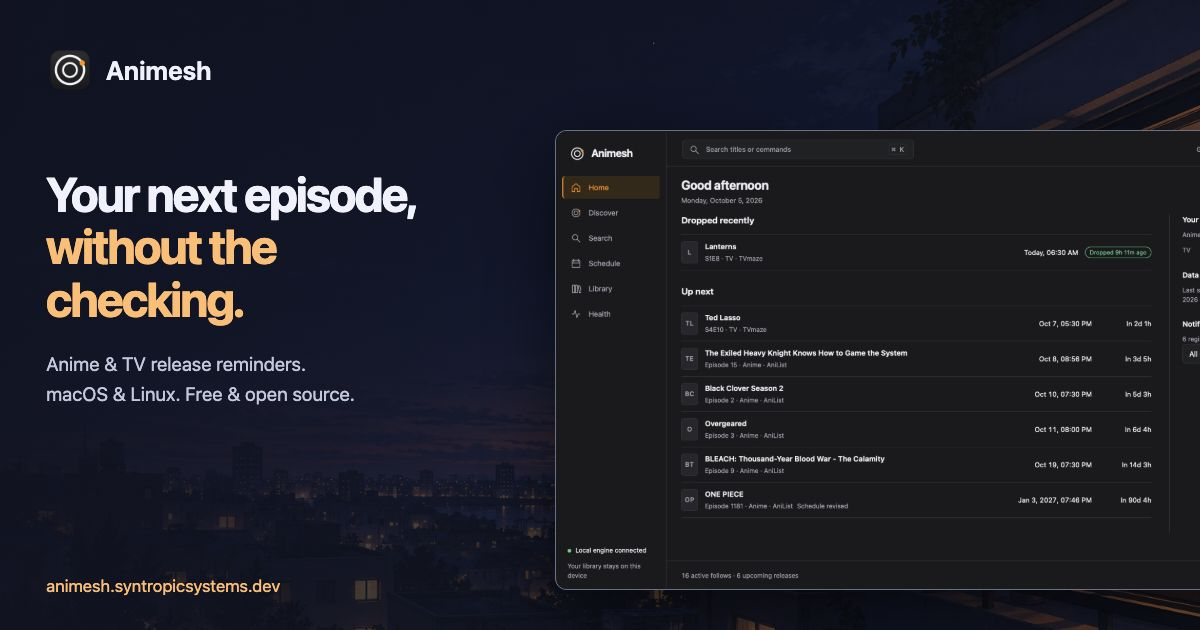
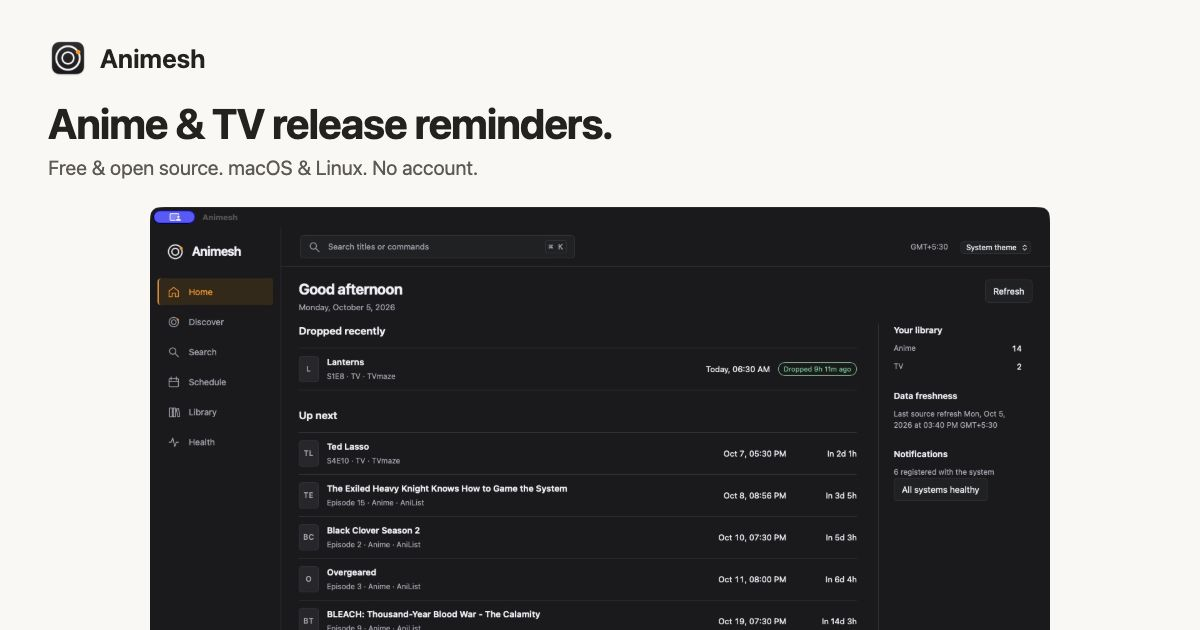
Simplify the website to screenshots and compact downloads

diff --git a/site/index.html b/site/index.html
@@ -3,10 +3,10 @@
 <head>
   <meta charset="utf-8">
   <meta name="viewport" content="width=device-width, initial-scale=1">
-  <meta name="color-scheme" content="dark">
-  <meta name="description" content="Follow anime and TV shows. See the next episode and get release reminders on your Mac or Linux desktop. No account required.">
-  <meta property="og:title" content="Animesh — Your next episode, without the checking">
-  <meta property="og:description" content="A local-first anime and TV release radar for macOS and Linux. Follow your shows. Get on with your day.">
+  <meta name="color-scheme" content="light">
+  <meta name="description" content="Anime and TV release reminders for macOS and Linux. Free and open source. No account needed.">
+  <meta property="og:title" content="Animesh — Anime & TV release reminders">
+  <meta property="og:description" content="Follow your shows. Get a reminder when the next episode releases. Free for macOS and Linux.">
   <meta property="og:type" content="website">
   <meta property="og:url" content="https://animesh.syntropicsystems.dev/">
   <meta property="og:image" content="https://animesh.syntropicsystems.dev/assets/share.png">
@@ -15,53 +15,45 @@
   <link rel="icon" href="assets/icon.png">
   <link rel="stylesheet" href="styles.css">
   <script src="app.js" defer></script>
-  <title>Animesh — Your next episode, without the checking</title>
+  <title>Animesh — Anime & TV release reminders</title>
 </head>
 <body>
   <a class="skip" href="#main">Skip to content</a>
-  <header class="site-header wrap">
-    <a class="brand" href="#"><img src="assets/icon.png" width="40" height="40" alt="">Animesh</a>
-    <nav aria-label="Main navigation"><a href="#how">How it works</a><a href="#download">Download</a><a href="https://github.com/Abhi-Gautam/animesh">GitHub</a></nav>
+  <header class="wrap site-header">
+    <a class="brand" href="#"><img src="assets/icon.png" width="36" height="36" alt="">Animesh</a>
+    <nav aria-label="Main navigation"><a href="#download">Download</a><a href="https://github.com/Abhi-Gautam/animesh">GitHub</a></nav>
   </header>
-  <main id="main">
-    <section class="hero wrap" aria-labelledby="hero-title">
-      <div class="hero-copy"><p class="availability">For macOS &amp; Linux · Free &amp; open source</p>
-        <h1 id="hero-title">Your next episode,<br> <em>without the checking.</em></h1>
-        <p class="intro">Follow the anime and TV shows you care about. See what’s next, get a reminder when an episode releases, and get on with your day.</p>
-        <div class="actions"><a class="button primary" href="#download">Get Animesh</a><a class="button secondary" href="#inside">Take a look inside</a></div>
-        <p class="hero-note">No account. Your library stays on your device.</p>
+  <main id="main" class="wrap">
+    <section class="intro" aria-labelledby="hero-title">
+      <h1 id="hero-title">Anime &amp; TV release reminders.</h1>
+      <p>Follow your shows. Get a reminder when the next episode releases.</p>
+      <a class="button" href="#download">Download Animesh</a>
+      <p class="small">Free &amp; open source. macOS &amp; Linux. No account.</p>
+    </section>
+    <section class="screenshots" aria-label="App screenshots">
+      <div class="view-options" role="group" aria-label="Choose a screenshot">
+        <button type="button" data-view="home" aria-pressed="true">Home</button>
+        <button type="button" data-view="schedule" aria-pressed="false">Schedule</button>
+        <button type="button" data-view="library" aria-pressed="false">Library</button>
+        <button type="button" data-view="linux" aria-pressed="false">Linux</button>
+        <button type="button" data-view="menubar" aria-pressed="false">Menu bar</button>
+        <button type="button" data-view="terminal" aria-pressed="false">Terminal</button>
       </div>
-      <figure class="hero-shot"><div class="window-caption"><span class="window-dots" aria-hidden="true">● ● ●</span><span>Animesh on macOS</span></div><div class="mac-shot"><img src="assets/screenshots/mac-home.png" width="1440" height="900" alt="Animesh Home showing recently released episodes, upcoming anime and TV, and a fixed summary of 16 followed titles."></div><figcaption>Know what dropped. See what’s next.</figcaption></figure>
+      <figure>
+        <a id="view-full" href="assets/screenshots/mac-home.png" aria-label="Open full-size screenshot"><img id="view-image" src="assets/screenshots/mac-home.png" width="1440" height="900" alt="Animesh Home showing recent and upcoming episodes from a library of 16 followed shows."></a>
+        <figcaption aria-live="polite"><span id="view-caption">What dropped. What’s next.</span> <a id="terminal-search" href="assets/screenshots/cli-search.png" hidden>Search example</a></figcaption>
+      </figure>
     </section>
-    <section class="how wrap" id="how" aria-labelledby="how-title">
-      <div class="section-intro"><h2 id="how-title">A small app.<br>A little less keeping up.</h2><p>One place for your anime and TV release schedule, with times shown in your local timezone.</p></div>
-      <ol class="steps"><li><h3>Find your show</h3><p>Search AniList and TVmaze by name. Check the title, year, and format before you follow.</p></li><li><h3>Follow what matters</h3><p>Your next known episodes appear on Home and Schedule. Your library is saved locally.</p></li><li><h3>Let the reminder come to you</h3><p>Allow desktop notifications, then close the window. The background service keeps tracking release times.</p></li></ol>
-    </section>
-    <section class="inside wrap" id="inside" aria-labelledby="inside-title">
-      <div class="section-intro"><h2 id="inside-title">Your shows.<br>One clear view.</h2><p>Explore airing titles, look ahead, and keep the shows you deliberately follow together.</p></div>
-      <div class="viewer">
-        <div class="view-options" role="group" aria-label="Choose an app screenshot"><button type="button" data-view="schedule" aria-pressed="true">Schedule</button><button type="button" data-view="library" aria-pressed="false">Library</button><button type="button" data-view="discover" aria-pressed="false">Discover</button><button type="button" data-view="search" aria-pressed="false">Search</button><button type="button" data-view="health" aria-pressed="false">Health</button><button type="button" data-view="linux" aria-pressed="false">On Linux</button></div>
-        <figure><div id="view-frame" class="mac-shot"><img id="view-image" src="assets/screenshots/mac-schedule.png" width="1440" height="900" loading="lazy" alt="Animesh Schedule groups upcoming anime and TV episodes by local date, with filters above and a summary below."></div><figcaption id="view-caption" aria-live="polite">Look ahead by date. Filters and the summary stay visible while the list scrolls.</figcaption><a id="view-full" class="full-size" href="assets/screenshots/mac-schedule.png">Open full-size screenshot</a></figure>
+    <section class="download" id="download" aria-labelledby="download-title">
+      <h2 id="download-title">Download</h2>
+      <div class="platforms">
+        <div><h3>macOS</h3><p class="small">macOS 13+</p><div class="download-links"><a data-download="mac-arm" href="https://github.com/Abhi-Gautam/animesh/releases/tag/v0.7.0">Apple Silicon</a><a data-download="mac-intel" href="https://github.com/Abhi-Gautam/animesh/releases/tag/v0.7.0">Intel</a></div></div>
+        <div><h3>Linux</h3><p class="small">Ubuntu 24.04+</p><div class="download-links"><a data-download="linux-amd64" href="https://github.com/Abhi-Gautam/animesh/releases/tag/v0.7.0">x86_64 .deb</a><a data-download="linux-arm64" href="https://github.com/Abhi-Gautam/animesh/releases/tag/v0.7.0">ARM64 .deb</a></div></div>
       </div>
-      <div class="principles"><div><h3>A library that’s yours</h3><p>No Animesh account or cloud sync. Your followed titles and schedules live in a local SQLite database.</p></div><div><h3>Quiet in the background</h3><p>Keep tracking after closing the window. On macOS, your next releases are a click away in the menu bar.</p></div><div><h3>Clear about what it knows</h3><p>See source freshness and notification health. Schedules depend on source data; a release time can change.</p></div></div>
+      <p class="small install-note">macOS downloads are not yet notarized. <a href="https://github.com/Abhi-Gautam/animesh#install">Installation guide</a></p>
+      <p class="small"><span id="release-version">v0.7.0</span> · <a href="https://github.com/Abhi-Gautam/animesh/releases/latest">Release notes &amp; other downloads</a></p>
     </section>
-    <section class="other-ways wrap" aria-labelledby="other-title"><div class="section-intro"><h2 id="other-title">A quick glance.<br>Or a command away.</h2><p>The same local library in the desktop window, your Mac menu bar, and the terminal.</p></div><div class="tools-grid"><figure><img src="assets/screenshots/mac-menubar.png" width="698" height="336" loading="lazy" alt="The Mac menu bar shows six upcoming releases, 16 followed titles, and Open Animesh, Refresh Now, and Quit Animesh actions."><figcaption><h3>Right in the menu bar</h3><p>Check the next releases without opening the window. Open Animesh when you want the full view.</p></figcaption></figure><figure><img src="assets/screenshots/cli-next.png" loading="lazy" width="1172" height="800" alt="Actual output from animesh next, listing upcoming followed episodes, release times, and countdowns."><figcaption><h3>For the terminal, too</h3><p><code>animesh next</code> reads your saved schedule. Search, follow, refresh, and inspect health from the CLI. Every command supports JSON output.</p><a href="assets/screenshots/cli-search.png">See a real title search</a></figcaption></figure></div></section>
-    <section class="download wrap" id="download" aria-labelledby="download-title">
-      <div class="section-intro"><h2 id="download-title">Make room<br>for the next episode.</h2><p>Choose your system below. Animesh is an early release: expect rough edges and check release notes before updating.</p></div>
-      <div class="installers"><article><h3>macOS</h3><p>macOS 13 or newer</p><div class="download-links"><a class="button primary" data-download="mac-arm" href="https://github.com/Abhi-Gautam/animesh/releases/tag/v0.7.0">Apple Silicon .dmg</a><a class="button secondary" data-download="mac-intel" href="https://github.com/Abhi-Gautam/animesh/releases/tag/v0.7.0">Intel .dmg</a></div><p>Move Animesh into Applications and open it. Choose <strong>Open Animesh</strong> from the menu bar to open the window.</p><p class="install-note" id="mac-signing">The current download is not notarized. macOS may require approval in Privacy &amp; Security. Homebrew builds from source and is another install option.</p><details><summary>Install with Homebrew</summary><pre><code>brew tap abhi-gautam/animesh https://github.com/Abhi-Gautam/animesh
-brew install abhi-gautam/animesh/animesh
-animesh service start</code></pre><p>Homebrew builds the full app locally, so the first install takes longer.</p></details></article>
-      <article><h3>Linux</h3><p>Ubuntu 24.04 or a compatible newer system</p><div class="download-links"><a class="button primary" data-download="linux-amd64" href="https://github.com/Abhi-Gautam/animesh/releases/tag/v0.7.0">x86_64 .deb</a><a class="button secondary" data-download="linux-arm64" href="https://github.com/Abhi-Gautam/animesh/releases/tag/v0.7.0">ARM64 .deb</a></div><p>Install the package, then open <strong>Animesh</strong> from your applications menu. Your package manager installs its desktop dependencies.</p><pre><code>sudo apt install ./animesh_*.deb</code></pre><p class="install-note">Other distributions: tarballs and manual installation instructions are available in the release. The desktop requires WebKitGTK 4.1.</p></article></div>
-      <p class="release-note"><span id="release-version">v0.7.0</span> · <a href="https://github.com/Abhi-Gautam/animesh/releases/latest">Release notes, tarballs &amp; checksums</a> · <a href="https://github.com/Abhi-Gautam/animesh#commands">CLI documentation</a></p>
-    </section>
-    <section class="faq wrap" aria-labelledby="faq-title"><h2 id="faq-title">Before you install</h2><div>
-      <details><summary>Does Animesh play or download episodes?</summary><p>It tracks release schedules and sends reminders. Watch episodes through your streaming service. Source release times do not guarantee availability on a particular service or in your region.</p></details>
-      <details><summary>Does it work offline?</summary><p>Your saved library and known schedules remain available offline. Searching, discovering titles, and updating release times need an internet connection to AniList and TVmaze.</p></details>
-      <details><summary>What leaves my device?</summary><p>Searches and schedule refreshes contact AniList and TVmaze. Your library is stored locally; Animesh has no account, cloud sync, or app analytics. Those sources have their own privacy policies.</p></details>
-      <details><summary>Why didn’t I get a reminder?</summary><p>Check Health in the app for notification permission, source freshness, and the background service. Your system’s Focus or Do Not Disturb settings can silence banners. A show without a known upcoming episode has no reminder scheduled.</p></details>
-      <details><summary>How do I report a problem?</summary><p>Open a <a href="https://github.com/Abhi-Gautam/animesh/issues/new/choose">GitHub issue</a> with your system, app version, and steps to reproduce it. Health can copy diagnostics; review them before sharing.</p></details>
-    </div></section>
   </main>
-  <footer class="site-footer wrap"><a class="brand" href="#"><img src="assets/icon.png" width="32" height="32" alt="">Animesh</a><p>Built by <a href="https://syntropicsystems.dev/">Abhishek Gautam</a></p><nav aria-label="Project links"><a href="https://github.com/Abhi-Gautam/animesh">Source</a><a href="https://github.com/Abhi-Gautam/animesh/issues">Feedback</a><a href="https://syntropicsystems.dev/writing/animesh/">The story</a></nav></footer>
+  <footer class="wrap site-footer"><span class="small">By <a href="https://syntropicsystems.dev/">Abhishek Gautam</a></span><nav aria-label="Project links"><a href="https://github.com/Abhi-Gautam/animesh/issues">Feedback</a><a href="https://github.com/Abhi-Gautam/animesh#commands">CLI docs</a></nav></footer>
 </body>
 </html>

diff --git a/site/styles.css b/site/styles.css
@@ -1,11 +1,53 @@
-:root{color-scheme:dark;--bg:#101226;--surface:#171a32;--text:#f2f3fc;--muted:#b4b9d3;--line:#363b59;--accent:#ffc479;font:17px/1.65 -apple-system,BlinkMacSystemFont,"Segoe UI",sans-serif}
-*{box-sizing:border-box}html{scroll-behavior:smooth;scroll-padding-top:24px}body{margin:0;background:var(--bg);color:var(--text)}a{color:inherit;text-underline-offset:4px}button{font:inherit;cursor:pointer}img{display:block;max-width:100%;height:auto}h1,h2,h3,p,figure{margin:0}h1,h2,h3{line-height:1.13}p{max-width:65ch}h1{font-size:clamp(2.7rem,5.6vw,5rem);letter-spacing:-.055em;font-weight:730}h1 em{font-style:normal;color:var(--accent)}h2{font-size:clamp(2rem,3.3vw,3rem);letter-spacing:-.04em}h3{font-size:1.2rem;letter-spacing:-.02em}p{color:var(--muted)}.wrap{width:min(1220px,calc(100% - 80px));margin-inline:auto}.skip{position:fixed;top:12px;left:16px;z-index:10;padding:10px;background:var(--text);color:var(--bg);transform:translateY(-160%)}.skip:focus{transform:none}:where(a,button,summary):focus-visible{outline:3px solid var(--accent);outline-offset:5px}.site-header{display:flex;align-items:center;justify-content:space-between;padding-block:28px;gap:24px}.brand{display:flex;gap:12px;align-items:center;font-weight:700;font-size:1.25rem;letter-spacing:-.03em;text-decoration:none}.site-header nav,.site-footer nav{display:flex;gap:28px;font-size:.88rem}.site-header nav a,.site-footer nav a{text-decoration:none;color:var(--muted)}.site-header nav a:hover,.site-footer nav a:hover{color:var(--text)}.hero{position:relative;padding-top:68px;padding-bottom:110px}.hero-copy{max-width:900px}.availability{font-size:.88rem;margin-bottom:22px;color:#d0d4e9}.intro{font-size:1.15rem;max-width:590px;margin-top:26px;color:#d0d4e9}.actions{display:flex;gap:12px;flex-wrap:wrap;margin-top:30px}.button{display:inline-flex;justify-content:center;align-items:center;text-decoration:none;font-size:.94rem;font-weight:650;padding:13px 22px;border-radius:7px;border:1px solid var(--line);min-height:48px}.primary{background:var(--accent);color:#201a20;border-color:var(--accent)}.primary:hover{background:#ffd6a4}.secondary{background:#171a32e6;color:var(--text)}.secondary:hover{background:#232844}.hero-note{font-size:.83rem;margin-top:16px}.hero-shot{margin-top:64px;max-width:1100px;box-shadow:0 35px 90px #0007;border:1px solid #5b617b;border-radius:12px;background:#1c1c1e;overflow:hidden}.window-caption{display:flex;gap:20px;align-items:center;justify-content:center;position:relative;color:#c1c1ca;font-size:.7rem;height:30px;background:#242427}.window-dots{position:absolute;left:13px;color:#767783;letter-spacing:2px;font-size:.6rem}.mac-shot{overflow:hidden;aspect-ratio:1440/872;background:#1c1c1e}.mac-shot img{width:100%;margin-top:-1.9444%;max-width:none}.hero-shot figcaption{background:var(--bg);padding:13px 20px;font-size:.83rem;color:var(--muted)}.section-intro{display:flex;justify-content:space-between;gap:40px;align-items:end;margin-bottom:48px}.section-intro p{max-width:430px;font-size:1rem}.how,.inside,.download,.faq{padding-block:78px;border-top:1px solid var(--line)}.steps{display:grid;grid-template-columns:repeat(3,minmax(0,1fr));gap:50px;padding-left:24px;margin:0}.steps li{padding-left:8px}.steps li::marker{color:var(--accent);font-weight:600}.steps p{margin-top:16px;font-size:.95rem}.viewer{background:#191c33;border:1px solid var(--line);border-radius:10px;overflow:hidden}.view-options{display:flex;gap:4px;padding:14px;flex-wrap:wrap}.view-options button{background:transparent;color:var(--muted);border:1px solid transparent;border-radius:5px;padding:8px 18px;font-size:.9rem}.view-options button:hover{color:var(--text)}.view-options button[aria-pressed=true]{background:#303650;color:var(--text);border-color:#525b7f}.viewer figcaption{padding:18px 24px;color:var(--muted);font-size:.9rem;min-height:66px}.principles{display:grid;grid-template-columns:repeat(3,minmax(0,1fr));gap:50px;margin-top:48px}.principles p{font-size:.95rem;margin-top:16px}.installers{display:grid;grid-template-columns:repeat(2,minmax(0,1fr));gap:48px}.installers article{border-top:3px solid var(--accent);padding-top:24px}.installers h3{font-size:1.7rem}.installers p{margin-top:12px;font-size:.9rem}.download-links{display:flex;gap:10px;flex-wrap:wrap;margin-block:24px}.install-note{color:#ced0e2}.installers details{margin-top:20px}.release-note{margin-top:40px;font-size:.85rem;max-width:none}pre{padding:16px;background:#191c33;border:1px solid var(--line);border-radius:6px;white-space:pre-wrap;overflow-wrap:anywhere;margin-block:18px;font-size:.78rem;line-height:1.7}code{font-family:ui-monospace,SFMono-Regular,Consolas,monospace}.faq{display:grid;grid-template-columns:1fr 2fr;gap:70px}.faq h2{font-size:2rem}.faq details{padding:20px 0;border-bottom:1px solid var(--line)}summary{cursor:pointer;font-weight:600;font-size:.95rem;padding-right:20px}.faq p{font-size:.9rem;margin-top:16px}.site-footer{border-top:1px solid var(--line);padding-block:34px;display:flex;align-items:center;gap:24px;justify-content:space-between}.site-footer p{font-size:.82rem}.linux-shot{aspect-ratio:1440/900}.linux-shot img{margin-top:0}.site-footer .brand{font-size:1rem}
-@media(max-width:800px){.wrap{width:calc(100% - 40px)}.hero{padding-top:42px;padding-bottom:64px}.hero-shot{margin-top:42px}.section-intro{display:block;margin-bottom:32px}.section-intro p{margin-top:20px}.how,.inside,.download,.faq{padding-block:50px}.steps,.principles{grid-template-columns:1fr;gap:30px}.installers{grid-template-columns:1fr;gap:48px}.faq{grid-template-columns:1fr;gap:20px}.site-footer{align-items:flex-start;flex-wrap:wrap}.site-header nav{gap:16px;font-size:.78rem}.brand{font-size:1.1rem}.site-header .brand img{width:32px}.hero h1 br{display:none}.hero h1{max-width:650px}.view-options button{padding:8px 12px}}
-@media(max-width:400px){.site-header{align-items:start}.site-header nav{flex-wrap:wrap;justify-content:end;max-width:160px;gap:8px 16px}.download-links .button{width:100%}}
-@media(prefers-reduced-motion:reduce){html{scroll-behavior:auto}}
-
-.other-ways{padding-block:78px;border-top:1px solid var(--line)}.tools-grid{display:grid;grid-template-columns:1fr 1.25fr;gap:48px;align-items:start}.tools-grid img{width:100%;border:1px solid var(--line);border-radius:8px}.tools-grid figcaption{margin-top:24px}.tools-grid p{margin-top:14px;font-size:.95rem}.tools-grid a{display:inline-block;margin-top:18px;font-size:.9rem}@media(max-width:800px){.other-ways{padding-block:50px}.tools-grid{grid-template-columns:1fr;gap:40px}}
-
-h1{overflow-wrap:anywhere}.button{max-width:100%}.full-size{display:inline-block;margin:0 24px 20px;font-size:.85rem;color:var(--muted)}@media(max-width:800px){.site-header{flex-wrap:wrap}}
-
-body{background-image:linear-gradient(0deg,var(--bg) 0%,#10122660 65%,#10122680),url("assets/evening.webp");background-repeat:no-repeat;background-position:right top;background-size:100% 1450px,auto 1450px}
+:root {
+  color-scheme: light;
+  font: 16px/1.5 -apple-system, BlinkMacSystemFont, "Segoe UI", sans-serif;
+  color: #282621;
+  background: #faf9f6;
+}
+* { box-sizing: border-box; }
+body { margin: 0; }
+a { color: inherit; text-underline-offset: 4px; }
+img { display: block; max-width: 100%; height: auto; }
+h1, h2, h3, p, figure { margin: 0; }
+button { font: inherit; cursor: pointer; }
+.wrap { width: min(960px, calc(100% - 48px)); margin-inline: auto; }
+.small { font-size: .875rem; color: #68645d; }
+:where(a, button):focus-visible { outline: 3px solid #98601c; outline-offset: 5px; }
+.skip { position: fixed; top: 12px; left: 12px; padding: 10px; background: white; transform: translateY(-160%); z-index: 1; }
+.skip:focus { transform: none; }
+.site-header, .site-footer { display: flex; align-items: center; justify-content: space-between; gap: 24px; }
+.site-header { padding-block: 28px; }
+.brand { display: flex; align-items: center; gap: 10px; font-size: 1.3rem; font-weight: 700; text-decoration: none; }
+nav { display: flex; gap: 24px; font-size: .875rem; }
+nav a { text-decoration: none; }
+nav a:hover { text-decoration: underline; }
+.intro { text-align: center; padding-block: 46px 34px; }
+h1 { font-size: clamp(2rem, 4.5vw, 2.75rem); line-height: 1.15; letter-spacing: -.035em; font-weight: 700; }
+.intro > p { margin-top: 16px; }
+.button { display: inline-block; margin-top: 24px; padding: 12px 24px; border-radius: 7px; background: #f1bd70; font-weight: 650; text-decoration: none; }
+.button:hover { background: #eab360; }
+.view-options { display: flex; justify-content: center; gap: 4px; flex-wrap: wrap; margin-bottom: 18px; }
+.view-options button { padding: 7px 14px; color: #68645d; background: transparent; border: 0; border-radius: 5px; font-size: .875rem; }
+.view-options button[aria-pressed="true"] { color: #282621; background: #eae7e0; }
+.view-options button:hover { color: #282621; }
+#view-full { display: flex; justify-content: center; align-items: center; min-width: 0; }
+#view-image { border-radius: 8px; width: 100%; }
+#view-image[data-view="menubar"] { width: min(100%, 698px); }
+figcaption { text-align: center; margin-top: 14px; color: #68645d; font-size: .875rem; }
+.download { text-align: center; padding-block: 52px 44px; }
+h2 { font-size: 1.5rem; font-weight: 650; }
+h3 { font-size: 1rem; font-weight: 650; }
+.platforms { display: flex; justify-content: center; gap: 72px; margin-block: 24px; }
+.platforms .small { margin-top: 4px; }
+.download-links { display: flex; gap: 18px; flex-wrap: wrap; justify-content: center; margin-top: 12px; font-size: .875rem; }
+.install-note { margin-bottom: 8px; }
+.site-footer { padding-block: 24px; border-top: 1px solid #dedbd4; }
+@media (max-width: 600px) {
+  .wrap { width: calc(100% - 32px); }
+  .site-header { padding-block: 20px; }
+  nav { gap: 16px; }
+  .intro { padding-top: 28px; }
+  .view-options button { padding: 7px 10px; }
+  .platforms { gap: 28px; flex-wrap: wrap; }
+  .site-header, .site-footer { flex-wrap: wrap; }
+}

diff --git a/site/app.js b/site/app.js
@@ -1,17 +1,21 @@
 const views = {
-  search: ["mac-search.png", "Animesh Search has a title search field, anime and TV filters, and source guidance.", "Find a title by name, then check its year, format, and source before following."],
-  health: ["mac-health.png", "Animesh Health shows the local engine, source freshness, notification status, and storage checks.", "Understand source freshness, notification permission, and the background service from one page."],
-  schedule: ["mac-schedule.png", "Animesh Schedule groups upcoming anime and TV episodes by local date, with filters above and a summary below.", "Look ahead by date. Filters and the summary stay visible while the list scrolls."],
-  library: ["mac-library.png", "Animesh Library showing followed titles, an anime and TV filter, sorting, and each title’s next known episode.", "Follow deliberately. Keep your anime and TV together, with the next known episode alongside each title."],
-  discover: ["mac-discover.png", "Animesh Discover showing an airing anime collection with title details and Follow controls.", "Explore a bounded collection of airing titles, then choose what you want to follow."],
-  linux: ["linux-discover.png", "Animesh running natively on Linux, showing the Discover page with airing anime and Follow controls.", "The same release radar on Linux. Actual Ubuntu desktop capture; appearance follows your system."],
+  home: ["mac-home.png", "Animesh Home showing recent and upcoming episodes from a library of 16 followed shows.", "What dropped. What’s next."],
+  schedule: ["mac-schedule.png", "Animesh Schedule showing upcoming anime and TV episodes by date.", "Your upcoming episodes, by date."],
+  library: ["mac-library.png", "Animesh Library showing followed anime and TV shows and their next episodes.", "The shows you follow."],
+  linux: ["linux-discover.png", "Animesh Discover running on Ubuntu, with airing anime and Follow buttons.", "On Linux, too."],
+  menubar: ["mac-menubar.png", "Animesh’s Mac menu bar showing upcoming releases and an Open Animesh button.", "A quick look from the Mac menu bar."],
+  terminal: ["cli-next.png", "Actual animesh next terminal output listing upcoming episodes and release times.", "The same library, from your terminal."],
 };
 for (const control of document.querySelectorAll("[data-view]")) {
   control.addEventListener("click", () => {
     const [file, alt, caption] = views[control.dataset.view];
     for (const sibling of document.querySelectorAll("[data-view]")) sibling.setAttribute("aria-pressed", String(sibling === control));
-    const image = document.getElementById("view-image"); image.src = `assets/screenshots/${file}`; image.alt = alt; document.getElementById("view-full").href = image.src;
-    document.getElementById("view-frame").classList.toggle("linux-shot", control.dataset.view === "linux");
+    const image = document.getElementById("view-image");
+    image.src = `assets/screenshots/${file}`;
+    image.alt = alt;
+    image.dataset.view = control.dataset.view;
+    document.getElementById("view-full").href = image.src;
     document.getElementById("view-caption").textContent = caption;
+    document.getElementById("terminal-search").hidden = control.dataset.view !== "terminal";
   });
 }

diff --git a/site/launch.html b/site/launch.html
@@ -1,1 +1,1 @@
-<!doctype html><html lang="en"><meta charset="utf-8"><style>*{box-sizing:border-box}html,body{margin:0;width:1200px;height:630px;overflow:hidden;font-family:-apple-system,BlinkMacSystemFont,"Segoe UI",sans-serif;color:#f2f3fc;background:#101226}body{position:relative;padding:46px;background:linear-gradient(90deg,#101226f2,#10122666),url(assets/evening.webp) center/cover}header{display:flex;gap:12px;align-items:center;font-size:26px;font-weight:650}header img{width:48px;height:48px}h1{font-size:48px;line-height:1.09;letter-spacing:-2px;max-width:400px;margin:74px 0 24px}h1 em{font-style:normal;color:#ffc479}p{font-size:19px;color:#c9cde1;line-height:1.6;max-width:360px}.shot{position:absolute;width:760px;right:-115px;top:130px;aspect-ratio:1440/872;overflow:hidden;border:1px solid #757b92;border-radius:12px;box-shadow:0 25px 80px #0009}.shot img{display:block;width:100%;margin-top:-1.9444%}.address{position:absolute;bottom:34px;left:46px;font-size:17px;color:#ffc479}</style><header><img src="assets/icon.png" alt="">Animesh</header><h1>Your next episode,<br><em>without the checking.</em></h1><p>Anime &amp; TV release reminders.<br>macOS &amp; Linux. Free &amp; open source.</p><div class="shot"><img src="assets/screenshots/mac-home.png" alt="Animesh Home"></div><div class="address">animesh.syntropicsystems.dev</div></html>
+<!doctype html><html lang="en"><meta charset="utf-8"><style>*{box-sizing:border-box}html,body{margin:0;width:1200px;height:630px;overflow:hidden;font-family:-apple-system,BlinkMacSystemFont,"Segoe UI",sans-serif;color:#282621;background:#faf9f6}body{padding:38px 48px}header{display:flex;gap:12px;align-items:center;font-size:26px;font-weight:650}header img{width:40px;height:40px}h1{font-size:42px;letter-spacing:-1px;margin:20px 0 8px}p{font-size:20px;color:#68645d;margin:0}.shot{width:900px;margin:28px auto 0;border-radius:8px;overflow:hidden}.shot img{display:block;width:100%}</style><header><img src="assets/icon.png" alt="">Animesh</header><h1>Anime &amp; TV release reminders.</h1><p>Free &amp; open source. macOS &amp; Linux. No account.</p><div class="shot"><img src="assets/screenshots/mac-home.png" alt="Animesh Home"></div></html>

diff --git a/site/404.html b/site/404.html
@@ -1,1 +1,1 @@
-<!doctype html><html lang="en"><meta charset="utf-8"><meta name="viewport" content="width=device-width,initial-scale=1"><title>Page not found — Animesh</title><link rel="stylesheet" href="/styles.css"><main class="wrap hero"><h1>This page isn’t here.</h1><p class="intro">Find Animesh’s screenshots, downloads, and installation help on the home page.</p><p class="actions"><a class="button primary" href="/">Go to Animesh</a></p></main></html>
+<!doctype html><html lang="en"><meta charset="utf-8"><meta name="viewport" content="width=device-width,initial-scale=1"><title>Page not found — Animesh</title><link rel="stylesheet" href="/styles.css"><main class="wrap intro"><h1>Page not found.</h1><a class="button" href="/">Back to Animesh</a></main></html>

diff --git a/site/README.md b/site/README.md
@@ -16,9 +16,7 @@ Screenshots are real app captures. macOS captures use the maintainer’s library
 Linux captures come from the native WebKit release smoke test. Terminal images
 render actual read-only command output in a terminal frame. Dates are sample
 views from capture time, not a live airing schedule. The screenshot viewer
-leaves the interface unchanged and clips the native window’s title bar.
-`evening.webp` is a generated decorative illustration, not anime artwork or
-an app screenshot. Share and launch compositions use the actual captures.
+leaves the interface unchanged. Share images use the actual app capture.
 
 No website analytics are enabled. The hosting provider has its own access logs.
 Downloads are hosted by GitHub; searches inside the app contact AniList/TVmaze.
